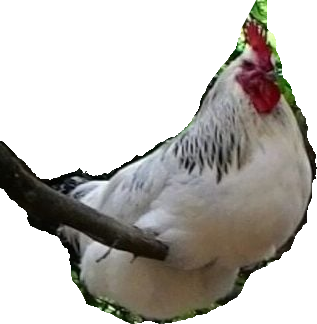
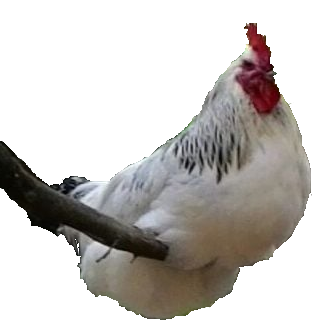
added redemption expansion

diff --git a/Content/MoRExpansion/ChickenSCElementalDamage.cs b/Content/MoRExpansion/ChickenSCElementalDamage.cs
@@ -1,0 +1,50 @@
+using System;
+using System.Reflection;
+using Terraria.ModLoader;
+using Chickensubclass.Content.Projectiles;
+
+namespace Chickensubclass.Content.MoRExpansion
+{
+    public class ChickenSCGlobalProjectile : GlobalProjectile
+    {
+        public override void SetStaticDefaults()
+        {
+            if (ModLoader.TryGetMod("Redemption", out Mod redemptionMod)) {
+                RegisterElement(redemptionMod, "ProjArcane", ModContent.ProjectileType<MagicChickenProjectile>());
+                RegisterElement(redemptionMod, "ProjArcane", ModContent.ProjectileType<PrismaticChickenProjectile>());
+                RegisterElement(redemptionMod, "ProjArcane", ModContent.ProjectileType<SpookyChickenProjectile>());
+                RegisterElement(redemptionMod, "ProjArcane", ModContent.ProjectileType<ChaosChickenProjectile>());
+
+                RegisterElement(redemptionMod, "ProjFire", ModContent.ProjectileType<ChickenFireFeatherProjectile>());
+                RegisterElement(redemptionMod, "ProjFire", ModContent.ProjectileType<SolarChickenProjectile>());
+
+                RegisterElement(redemptionMod, "ProjHoly", ModContent.ProjectileType<HolyChickenProjectile>());
+                RegisterElement(redemptionMod, "ProjHoly", ModContent.ProjectileType<TrueHolyChickenProjectile>());
+                RegisterElement(redemptionMod, "ProjHoly", ModContent.ProjectileType<PrismaticChickenProjectile>());
+
+                RegisterElement(redemptionMod, "ProjShadow", ModContent.ProjectileType<EvilChickenProjectile>());
+                RegisterElement(redemptionMod, "ProjShadow", ModContent.ProjectileType<DarkChickenProjectile>());
+                RegisterElement(redemptionMod, "ProjShadow", ModContent.ProjectileType<TrueDarkChickenProjectile>());
+
+                RegisterElement(redemptionMod, "ProjNature", ModContent.ProjectileType<RedJunglefowlProjectile>());
+                //ElementID.ProjPsychic[ModContent.ProjectileType<ReaperChickenProjectile>()] = true;
+
+                RegisterElement(redemptionMod, "ProjCelestial", ModContent.ProjectileType<SolarChickenProjectile>());
+                RegisterElement(redemptionMod, "ProjCelestial", ModContent.ProjectileType<PrismaticChickenProjectile>());
+                RegisterElement(redemptionMod, "ProjCelestial", ModContent.ProjectileType<ZenithChickenProjectile>());
+
+                RegisterElement(redemptionMod, "ProjExplosive", ModContent.ProjectileType<SolarChickenProjectile>());
+                RegisterElement(redemptionMod, "ProjExplosive", ModContent.ProjectileType<ExplosiveChickenProjectile>());
+                RegisterElement(redemptionMod, "ProjExplosive", ModContent.ProjectileType<NuclearChickenProjectile>());
+            }
+        }
+
+        private static void RegisterElement(Mod redemptionMod, string fieldName, int projectileType)
+        {
+            Type elementType = redemptionMod.Code.GetType("Redemption.Globals.ElementID");
+            FieldInfo elementField = elementType?.GetField(fieldName, BindingFlags.Public | BindingFlags.Static);
+            if (elementField?.GetValue(null) is bool[] projectiles && projectileType < projectiles.Length)
+                projectiles[projectileType] = true;
+        }
+    }
+}

diff --git a/Content/MoRExpansion/ItemRecipeChanges.cs b/Content/MoRExpansion/ItemRecipeChanges.cs
@@ -1,0 +1,31 @@
+using System.Linq;
+using Terraria;
+using Terraria.ID;
+using Terraria.ModLoader;
+using Chickensubclass.Content.Items;
+
+namespace Chickensubclass.Content.MoRExpansion
+{
+    public class ItemSCRecipeChanges : ModSystem
+    {
+        public override void PostAddRecipes() {
+            if (ModLoader.TryGetMod("Chickensubclass", out Mod chickenMod) && ModLoader.TryGetMod("Redemption", out Mod redemptionMod)) {
+                if (chickenMod.TryFind("ReaperChicken", out ModItem chickenItem) && redemptionMod.TryFind("XenomiteShard", out ModItem redemptionItem)) {
+                    
+                    Recipe targetRecipe = Main.recipe.FirstOrDefault(r => r.createItem.type == chickenItem.Type);
+                    
+                    if (targetRecipe != null) {
+                        targetRecipe.DisableRecipe();
+                    }
+
+                    Recipe newReaperChickenRecipe = Recipe.Create(chickenItem.Type);
+                    newReaperChickenRecipe.AddIngredient(ItemID.DeathSickle, 1);
+                    newReaperChickenRecipe.AddIngredient(chickenMod.Find<ModItem>("RawChicken").Type, 10);
+                    newReaperChickenRecipe.AddIngredient(redemptionItem.Type, 20);
+                    newReaperChickenRecipe.AddTile(TileID.MythrilAnvil);
+                    newReaperChickenRecipe.Register();
+                }
+            }
+        }
+    }
+}

diff --git a/Content/MoRExpansion/EggShelldChange.cs b/Content/MoRExpansion/EggShelldChange.cs
@@ -1,0 +1,37 @@
+using System.Collections.Generic;
+using Terraria;
+using Terraria.ModLoader;
+using Chickensubclass.Content;
+
+namespace Chickensubclass.Content.MoRExpansion
+{
+    public class RedemptionAccessoryModifier : GlobalItem
+    {
+        public override void UpdateAccessory(Item item, Player player, bool hideVisual)
+        {
+            if (IsEggShield(item))
+            {
+                if (ChickenWeaponDamageBoost.IfUsingChickenWeapon(player))
+                {
+                    player.noKnockback = true;
+                }
+            }
+        }
+
+        public override void ModifyTooltips(Item item, List<TooltipLine> tooltips)
+        {
+            if (IsEggShield(item))
+            {
+                tooltips.Add(new TooltipLine(Mod, "EggShieldChickenEffect",
+                    "If using a chicken weapon, you will also ignore knockback"));
+            }
+        }
+
+        private static bool IsEggShield(Item item)
+        {
+            return item.ModItem != null &&
+                item.ModItem.Mod.Name == "Redemption" &&
+                item.ModItem.Name == "EggShield";
+        }
+    }
+}

diff --git a/Content/MoRExpansion/ChickenCoopChange.cs b/Content/MoRExpansion/ChickenCoopChange.cs
@@ -1,0 +1,25 @@
+using Microsoft.Xna.Framework;
+using Terraria;
+using Terraria.DataStructures;
+using Terraria.ModLoader;
+using Chickensubclass.Content.Items;
+
+namespace Chickensubclass.Content.MoRExpansion
+{
+    public class ChickenCoopDropEdit : GlobalTile
+    {
+        public override void RandomUpdate(int i, int j, int type) {
+            if (ModLoader.TryGetMod("Redemption", out Mod redemptionMod)) {
+                if (redemptionMod.TryFind("ChickenCoopTile", out ModTile targetTile) && type == targetTile.Type) {
+                    
+                    if (Main.rand.NextBool(8)) {
+                        if (Main.rand.NextBool(1000) && Main.hardMode) {
+                            int susEgg = ModContent.ItemType<SusEgg>();
+                            Item.NewItem(new EntitySource_TileBreak(i, j), i * 16, j * 16, 16, 32, susEgg);
+                        }
+                    }
+                }
+            }
+        }
+    }
+}

diff --git a/Content/MoRExpansion/MoREnemyDropChanges.cs b/Content/MoRExpansion/MoREnemyDropChanges.cs
@@ -1,9 +1,9 @@
-using Chickensubclass.Content.RedemptionExp.Items;
 using Terraria;
 using Terraria.GameContent.ItemDropRules;
 using Terraria.ModLoader;
+using Chickensubclass.Content.Items;
 
-namespace Chickensubclass.Content.RedemptionExp.RedemptionExp
+namespace Chickensubclass.Content.MoRExpansion
 {
     public class MoREnemyDropChanges : GlobalNPC
     {
